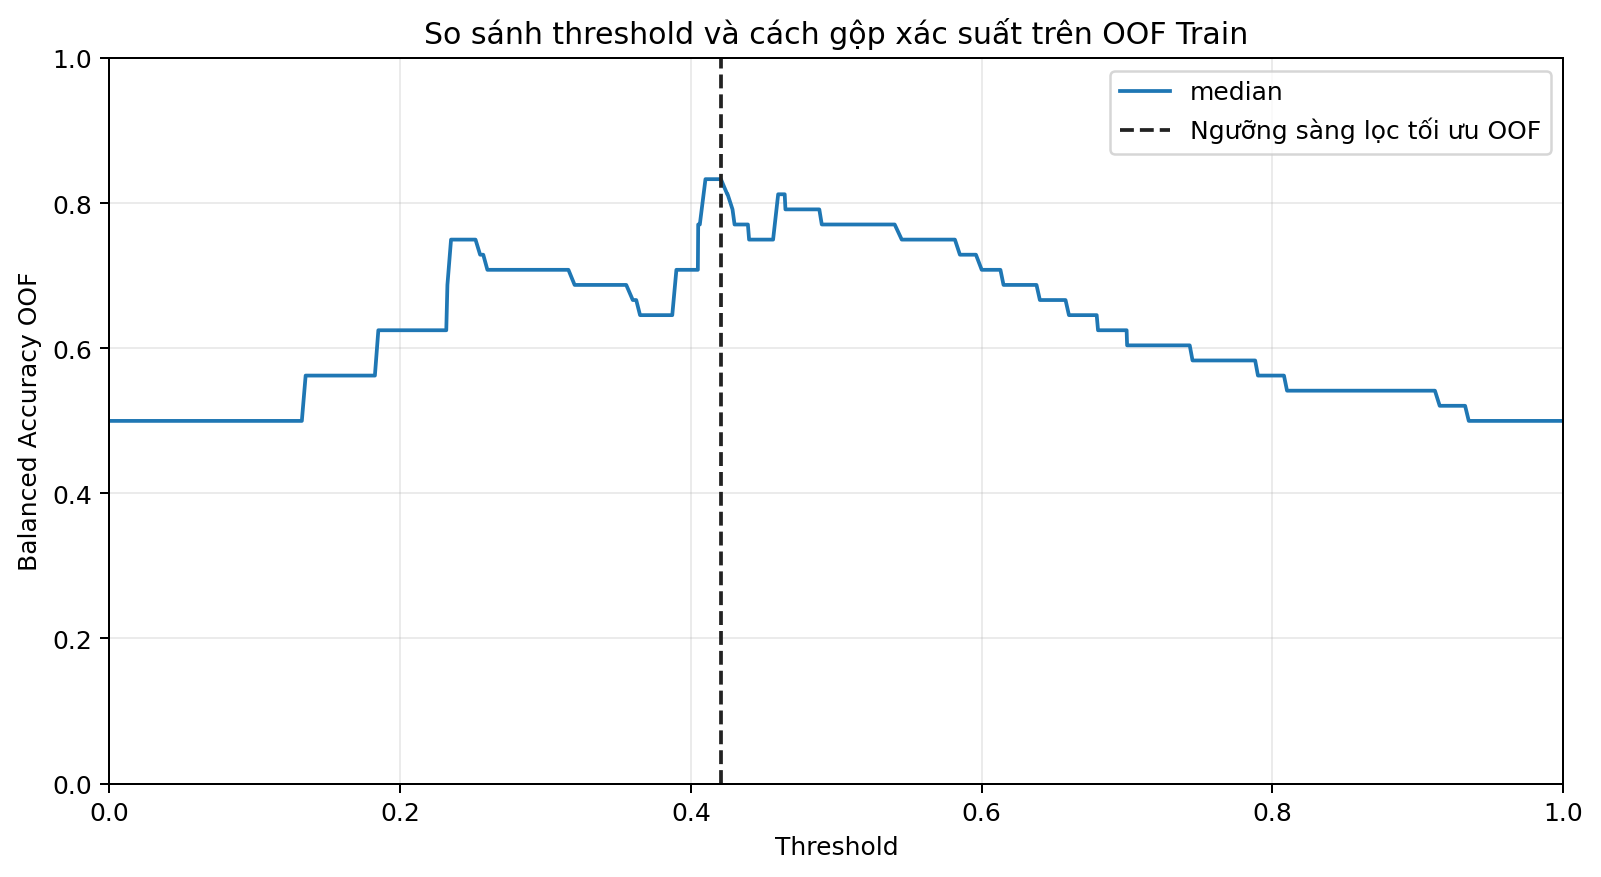
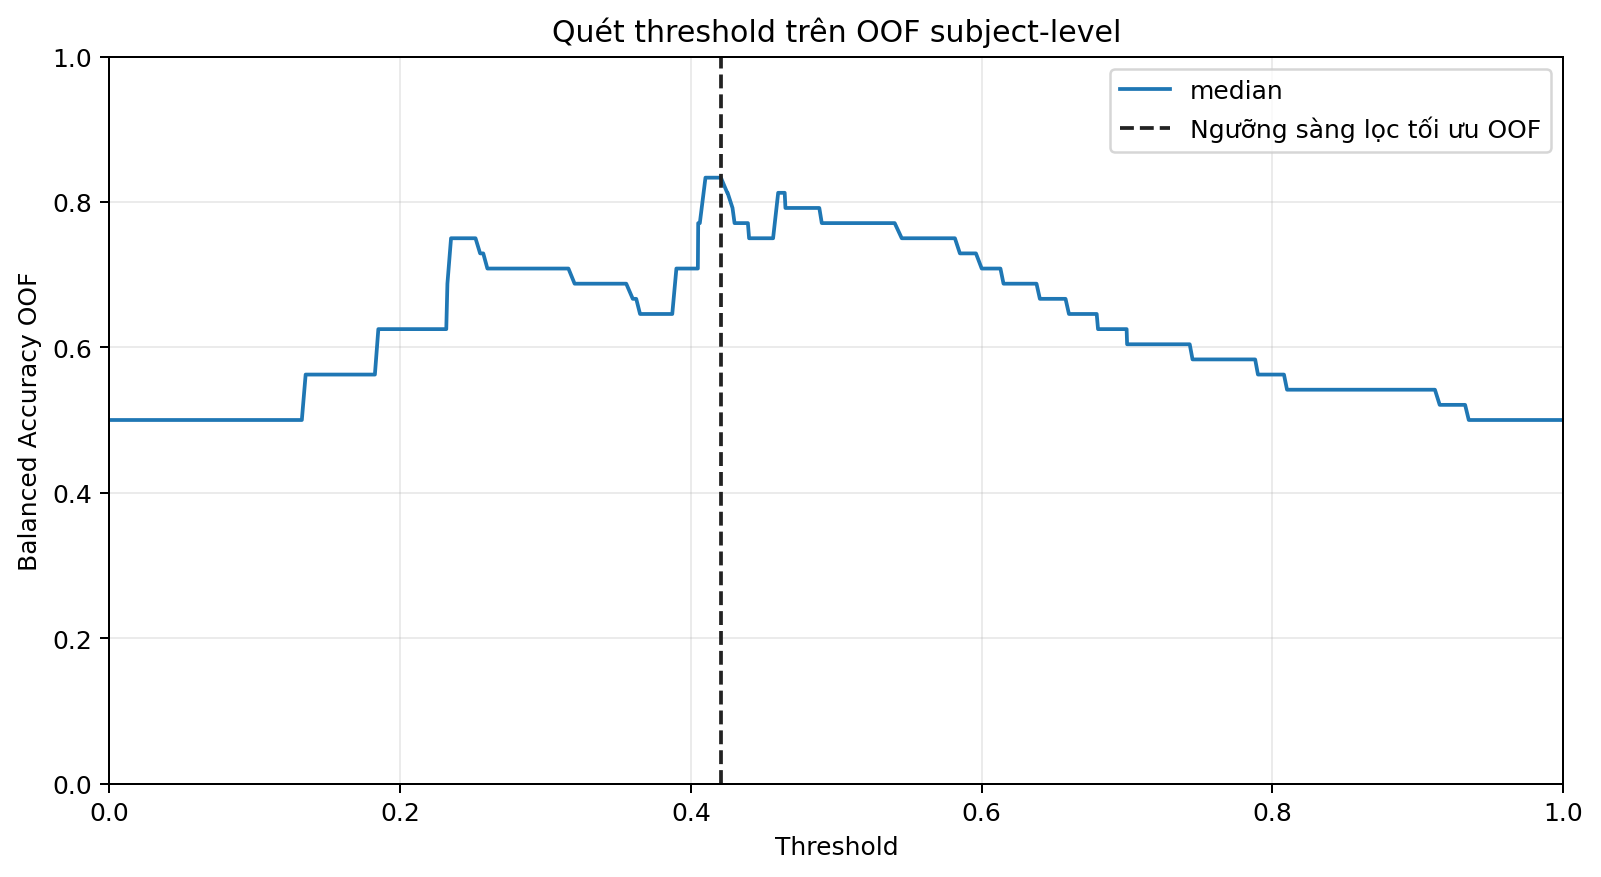
Update

diff --git a/scripts/predict.py b/scripts/predict.py
@@ -19,13 +19,18 @@ def main() -> None:
     parser = argparse.ArgumentParser()
     parser.add_argument("csv", help="CSV có name và 20 hoặc 22 feature")
     parser.add_argument("--artifact", default=str(ARTIFACT_PATH))
+    parser.add_argument(
+        "--record-output",
+        help="Tùy chọn: đường dẫn CSV để lưu score từng recording.",
+    )
     args = parser.parse_args()
     records, subjects = predict_records(
         pd.read_csv(args.csv),
         load_bundle(args.artifact),
     )
     print(subjects.to_json(orient="records", force_ascii=False, indent=2))
-    records.to_csv("prediction_record_scores.csv", index=False)
+    if args.record_output:
+        records.to_csv(args.record_output, index=False)
 
 
 if __name__ == "__main__":

diff --git a/app/api.py b/app/api.py
@@ -65,7 +65,7 @@ app = FastAPI(
         "Lưu ý: Chỉ nhận bảng 20 hoặc 22 đặc trưng âm học đã trích xuất sẵn (CSV/JSON), "
         "KHÔNG nhận file âm thanh thô WAV/MP3. Không dùng cho mục đích chẩn đoán y tế."
     ),
-    version="1.2.0",
+    version="1.0.0",
     lifespan=lifespan,
 )
 

diff --git a/README.md b/README.md
@@ -175,6 +175,13 @@ streamlit run app/streamlit_app.py
 
 API docs ở `http://localhost:8000/docs`; Streamlit ở `http://localhost:8501`. API tự nạp `artifacts/releases/v1.0.0/model.joblib`.
 
+Batch inference không tạo file phụ nếu không yêu cầu; thêm `--record-output` khi cần lưu score từng recording:
+
+```bash
+python scripts/predict.py tests/fixtures/inference_valid.csv \
+  --record-output reports/prediction_record_scores.csv
+```
+
 ### 6. Docker
 
 ```bash
